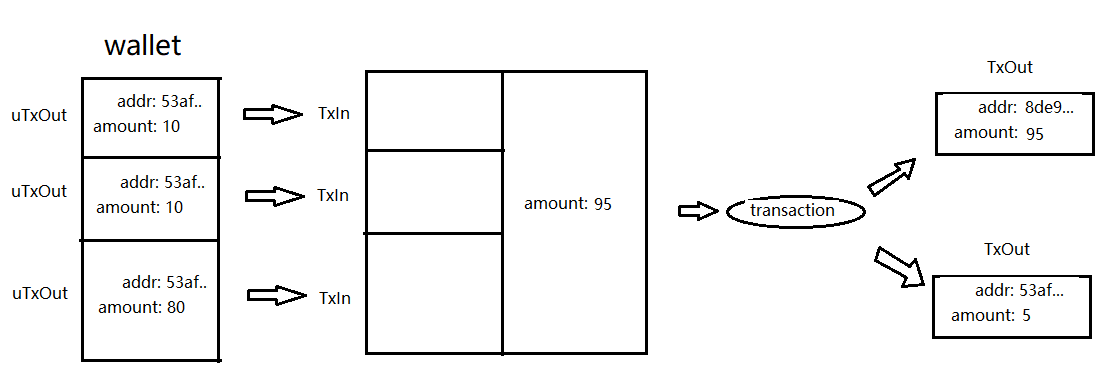
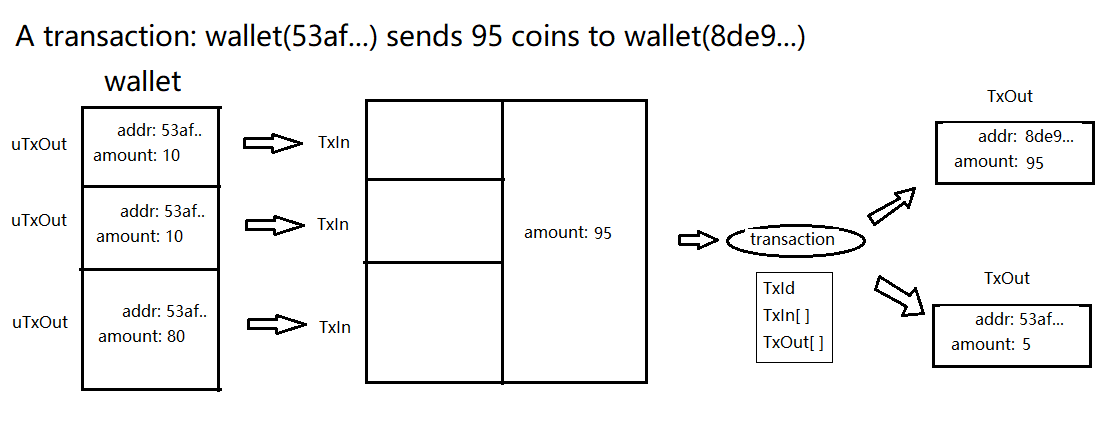
update wikipages

diff --git a/blockchain/cryptocurrency.md b/blockchain/cryptocurrency.md
@@ -1,0 +1,85 @@
+# Cryptocurrency
+
+With ***transactions***, we go from a “general purpose”
+blockchain to a cryptocurrency.
+
+A transaction contains the following info:
+
+* where the coins come (wallet of the sender)
+* where the coins go (wallet of the receiver)
+* amount of the coins
+
+## Workflow
+
+A transaction (object) is stored in a transaction pool which will
+broadcast to the network.
+
+Any node on the network can take it from the pool, verify the transaction,
+mine a block, get rewords, and then add it to the blockchain.
+The "data" region of the block contains that transaction.
+
+The node broadcasts this new block to the network and other nodes
+verify this block and update their local blockchain.
+
+In this way, the blockchain contains all verified transactions.
+
+## Transaction
+
+The seller may collect coins from several places
+for the deal. And the buyer may cut the overall coins
+into several pieces. Each of the "piece" or "place"
+is a unit of an asset. It consists of:
+
+* the address (public-key)
+* the amount
+
+The address tells who owns this piece of asset.
+A TxOut (transaction output) is the structure for this info.
+When you own some coins in the blockchain, what you actually
+have is a list of unspent transaction outputs (uTxOuts) whose
+public key matches the private key you own.
+
+The bellow picture shows the workflow of a transaction:
+
+![workflow](./pic/transaction.png)
+
+Three uTxOuts of the owner are spent and two TxOut are generated.
+The unspent transaction outputs list will be updated.
+
+## Wallet
+
+From the user's point of view, he does not care how
+the transaction works. He only needs to know how to:
+
+* check the balance in his wallet
+* send some coins to others
+* recv some coins from others
+
+The balance info can be obtained from the blockchain.
+It is the sum of a list of unspent transaction outputs (uTxOuts)
+that belongs to him.
+
+## Signature
+
+How to verify that a uTxOut belongs to someone?
+How to verify that the transaction indeed triggered
+by the owner of the specific uTxOut?
+
+The ***address*** of a uTxOut is in fact a public-key.
+It corresponds to a private-key owned by the owner of this uTxOut.
+
+A TxIn object contains:
+
+* a reference to an uTxOut
+* signature of the transaction id (TxId)
+
+TxId is a hash from the content of the transaction. It makes
+sure that the content of the transaction is not tampered.
+The owner just signs the transaction Id with his private-key
+and generates a signature. Anyone else can verify this signature
+with the public-key. Successful verification means that
+the transaction is valid.
+
+In a word, only the owner of this uTxOut can trigger the transaction.
+Anyone else's signature will not be verified and thus
+the transaction will fail.

diff --git a/index.md b/index.md
@@ -14,3 +14,9 @@ and review some knowledge learnt in the past.
 ## [#Programming](./programming/programming.md)
 
 ## [#Reading Notes](./notes/note.md)
+
+## Cases
+
+Goblog  |  |
+:----:|:----:|
+<a href="https://github.com/hzget/goblog"> <img src="./pics/goblog/view.png" width="139" height="302" /> </a> | A blog system used for sharing ideas and analyzing these articles via AI algorithms.

diff --git a/blockchain/blockchain.md b/blockchain/blockchain.md
@@ -14,7 +14,7 @@ than it must be. Especially source-code-wisely.
 
 ## [#Naivechain][naivechain]
 
-## [#transactions](./transaction.md)
+## [#Cryptocurrency](./cryptocurrency.md)
 
 [naivechain]: https://github.com/hzget/naivechain
 [blockchain]: https://en.wikipedia.org/wiki/Blockchain
